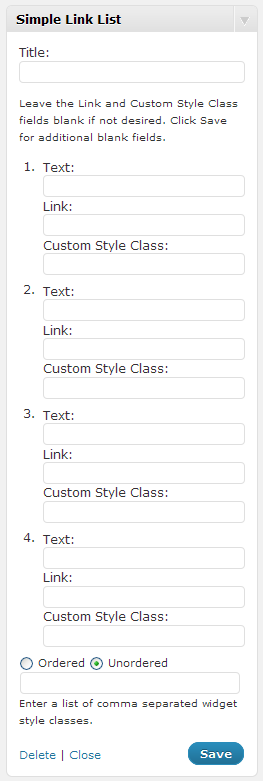
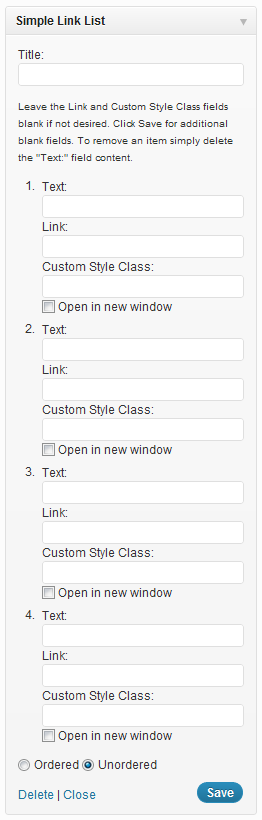
New Version
git-svn-id: https://plugins.svn.wordpress.org/simple-link-list-widget/trunk@599076 b8457f37-d9ea-0310-8a92-e5e31aec5664

diff --git a/simple-link-list-widget.php b/simple-link-list-widget.php
@@ -3,8 +3,8 @@
 Plugin Name: Simple Link List Widget
 Description: Enables a link list widget, in which you can display items in an ordered or unordered list.  Based on Frankie Roberto's List Widget
 Author: James Bowles
-Author URI: http://mesacc.edu/~chago
-Version: 0.1
+Author URI: http://mesacc.edu/~jamul76751
+Version: 0.2
 */
 
 class SimpleLinkListWidget extends WP_Widget {
@@ -23,7 +23,8 @@ class SimpleLinkListWidget extends WP_Widget {
 		for ($i = 1; $i <= $amount; $i++) {
 			$items[$i] = $instance['item' . $i];
 			$item_links[$i] = $instance['item_link' . $i];
-			$item_classes[$i] = $instance['item_class' . $i];
+			$item_classes[$i] = $instance['item_class' . $i];	
+			$item_targets[$i] = isset($instance['item_target' . $i]) ? $instance['item_target' . $i] : false;
 		}
 
 		echo $before_widget .  $before_title . $title . $after_title;  ?>
@@ -34,7 +35,11 @@ class SimpleLinkListWidget extends WP_Widget {
 						if (empty($item_links[$num])) :
 							echo("<li class='" . $item_classes[$num] . "'>" . $item . "</li>");
 						else :
-							echo("<li class='" . $item_classes[$num] . "'><a href='" . $item_links[$num] . "'>" . $item . "</a></li>");
+							if($item_targets[$num]) :
+								echo("<li class='" . $item_classes[$num] . "'><a href='" . $item_links[$num] . "' target='_blank'>" . $item . "</a></li>");
+							else :
+								echo("<li class='" . $item_classes[$num] . "'><a href='" . $item_links[$num] . "'>" . $item . "</a></li>");
+							endif;
 						endif;
 					endif;
 				 endforeach; ?>
@@ -52,12 +57,15 @@ class SimpleLinkListWidget extends WP_Widget {
 		}else{
 			$instance['amount'] = $new_instance['new_amount'];
 		}
-
+		$j=0; //index to skip over blank items
 		for ($i = 1; $i <= $instance['amount']; $i++) {
-			$instance['item' . $i] = strip_tags($new_instance['item' . $i]);
-			$instance['item_link' . $i] = $new_instance['item_link' . $i];
-			$instance['item_class' . $i] = strip_tags($new_instance['item_class' . $i]);
-		}		
+			if(empty($new_instance['item' . $i])){ $j++; }
+			$instance['item' . $i] = strip_tags($new_instance['item' . ($j+$i)]);
+			$instance['item_link' . $i] = $new_instance['item_link' . ($j+$i)];
+			$instance['item_class' . $i] = strip_tags($new_instance['item_class' . ($j+$i)]);
+			$instance['item_target' . $i] = $new_instance['item_target' . ($j+$i)];
+		}
+		$instance['amount'] = $instance['amount'] - $j;	
 		$instance['type'] = $new_instance['type'];
 		
 		return $instance;
@@ -72,6 +80,7 @@ class SimpleLinkListWidget extends WP_Widget {
 			$items[$i] = $instance['item' . $i];
 			$item_links[$i] = $instance['item_link' . $i];
 			$item_classes[$i] = $instance['item_class' . $i];
+			$item_targets[$i] = $instance['item_target' . $i];
 		}
 		$title_link = $instance['title_link'];		
 		$type = empty($instance['type']) ? 'unordered' : $instance['type'] ;
@@ -79,7 +88,7 @@ class SimpleLinkListWidget extends WP_Widget {
 ?>
 		<p><label for="<?php echo $this->get_field_id('title'); ?>"><?php _e('Title:'); ?></label>
 		<input class="widefat" id="<?php echo $this->get_field_id('title'); ?>" name="<?php echo $this->get_field_name('title'); ?>" type="text" value="<?php echo esc_attr($title); ?>" /></p>
-		<p><small>Leave the Link and Custom Style Class fields blank if not desired. Click Save for additional blank fields.</small></p>
+		<p><small>Leave the Link and Custom Style Class fields blank if not desired. Click Save for additional blank fields. To remove an item simply delete the "Text:" field content.</small></p>
 		<ol>
 		<?php foreach ($items as $num => $item) : ?>
 		
@@ -90,6 +99,7 @@ class SimpleLinkListWidget extends WP_Widget {
 				<input class="widefat" id="<?php echo $this->get_field_id('item_link' . $num); ?>" name="<?php echo $this->get_field_name('item_link' . $num); ?>" type="text" value="<?php echo esc_attr($item_links[$num]); ?>" />
 				<label for="<?php echo $this->get_field_id('item_class' . $num); ?>">Custom Style Class:</label>
 				<input class="widefat" id="<?php echo $this->get_field_id('item_class' . $num); ?>" name="<?php echo $this->get_field_name('item_class' . $num); ?>" type="text" value="<?php echo esc_attr($item_classes[$num]); ?>" />
+				<label for="<?php echo $this->get_field_id('item_target' . $num); ?>"><input type="checkbox" name="<?php echo $this->get_field_name('item_target' . $num); ?>" id="<?php echo $this->get_field_id('item_target' . $num); ?>" <?php checked($item_targets[$num], 'on'); ?> /> Open in new window</label>
 			</li>
 		<?php endforeach; ?>
 		
@@ -102,13 +112,14 @@ class SimpleLinkListWidget extends WP_Widget {
 				<input class="widefat" id="<?php echo $this->get_field_id('item_link' . $new_amount); ?>" name="<?php echo $this->get_field_name('item_link' . $new_amount); ?>" type="text" value="" />
 				<label for="<?php echo $this->get_field_id('item_class' . $new_amount); ?>">Custom Style Class:</label>
 				<input class="widefat" id="<?php echo $this->get_field_id('item_class' . $new_amount); ?>" name="<?php echo $this->get_field_name('item_class' . $new_amount); ?>" type="text" value="" />
+                <label for="<?php echo $this->get_field_id('item_target' . $new_amount); ?>"><input type="checkbox" name="<?php echo $this->get_field_name('item_target' . $new_amount); ?>" id="<?php echo $this->get_field_id('item_target' . $new_amount); ?>" />  Open in new window</label>
 			</li>
 		</ol>
 		<input type="hidden" id="<?php echo $this->get_field_id('amount'); ?>" name="<?php echo $this->get_field_name('amount'); ?>" value="<?php echo $amount ?>" />
 		<input type="hidden" id="<?php echo $this->get_field_id('new_amount'); ?>" name="<?php echo $this->get_field_name('new_amount'); ?>" value="<?php echo $new_amount ?>" />
 
-		<label for="<?php echo $this->get_field_id('ordered'); ?>"><input type="radio" name="<?php echo $this->get_field_name('type'); ?>" value="ordered" id="<?php echo $this->get_field_id('ordered'); ?>" <?php checked($type, "ordered"); ?>></input>  Ordered</label>
-		<label for="<?php echo $this->get_field_id('unordered'); ?>"><input type="radio" name="<?php echo $this->get_field_name('type'); ?>" value="unordered" id="<?php echo $this->get_field_id('unordered'); ?>" <?php checked($type, "unordered"); ?>></input> Unordered</label>
+		<label for="<?php echo $this->get_field_id('ordered'); ?>"><input type="radio" name="<?php echo $this->get_field_name('type'); ?>" value="ordered" id="<?php echo $this->get_field_id('ordered'); ?>" <?php checked($type, "ordered"); ?> />  Ordered</label>
+		<label for="<?php echo $this->get_field_id('unordered'); ?>"><input type="radio" name="<?php echo $this->get_field_name('type'); ?>" value="unordered" id="<?php echo $this->get_field_id('unordered'); ?>" <?php checked($type, "unordered"); ?> /> Unordered</label>
 
 <?php
 	}
